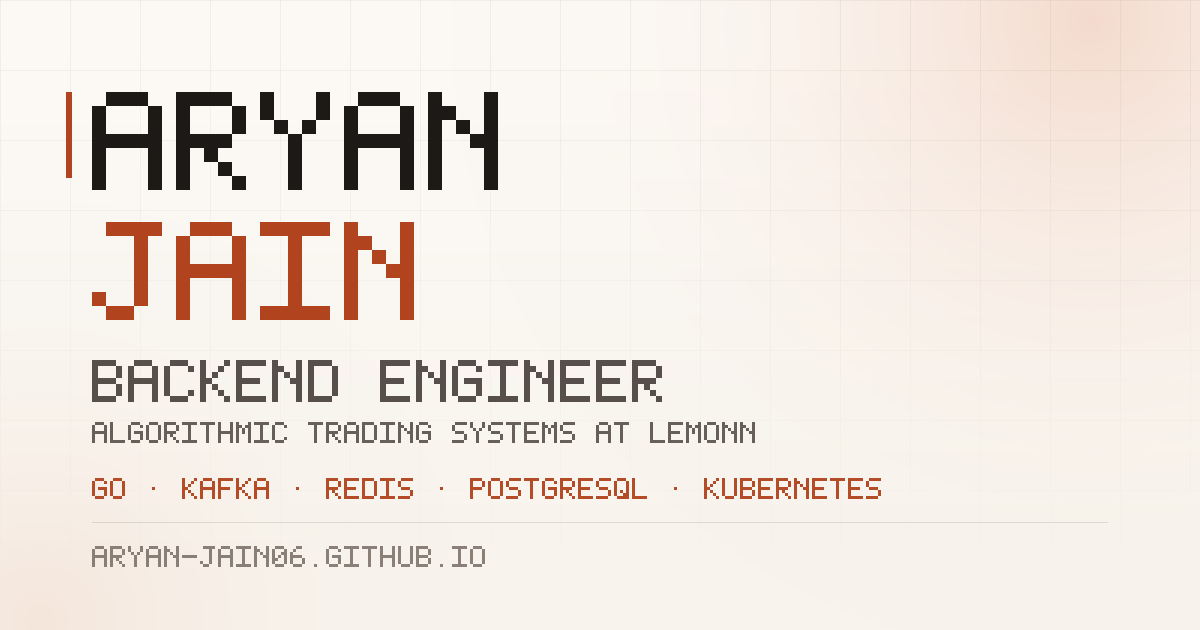
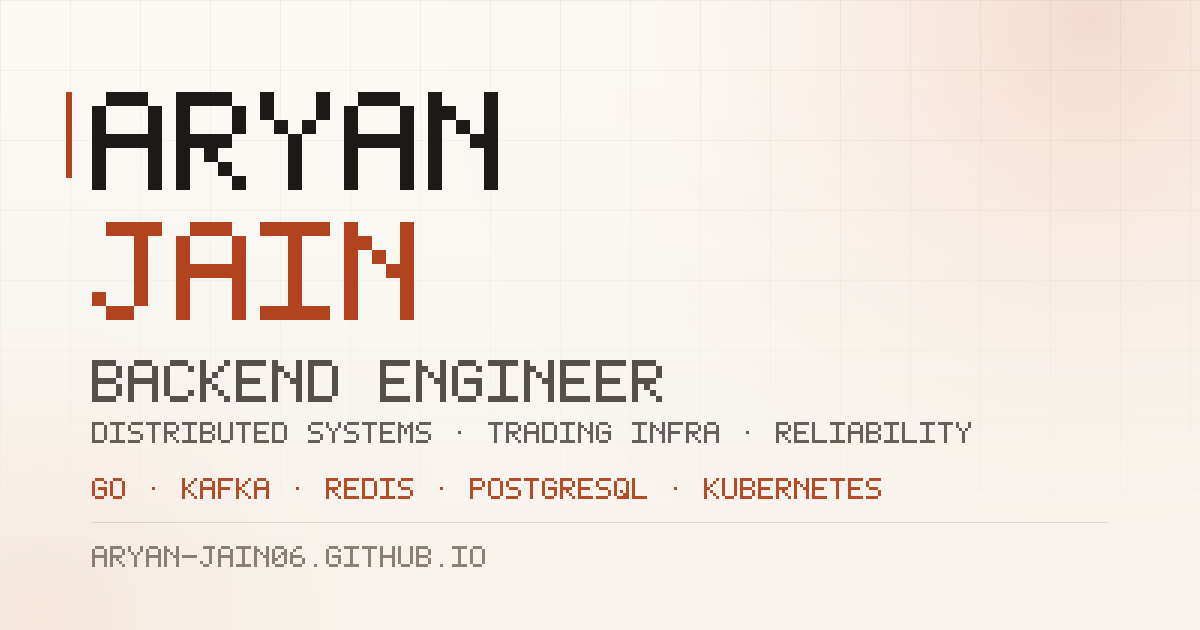
Add PolicyBazaar role; lead projects with Gramin Sahayak
PolicyBazaar (SDE 1, Aug 2026) is now the current role on the hero, the
details panel and the top of the experience timeline. Lemonn closes at
Jul 2026 and every reference to it is past tense. Graduation is past too,
so the B.Tech and chess lines move out of the present.

The PolicyBazaar entry carries a short lede rather than a single invented
bullet and a lone tag, which read as missing content — it needs real
bullets from Aryan before it says more.

Projects reordered: Gramin Sahayak first, HookRelay second, then SeatSync.
HookRelay ranks above SeatSync because it covers more ground — delivery
state machine, HMAC signing, retry schedule, dead-letter queue with
replay, dashboard and metrics — and ships a chaos test as well as a load
test.

Gramin Sahayak's card now leads with what it actually does: misinformation
detection over an ensemble of five machine-learning models served for
low-latency inference. The pipelines, translation and assistant move to
supporting detail.

Regenerated og.png, which still advertised the Lemonn role; its subtitle
is now a durable line that will not go stale on the next job change.

Claude-Session: https://claude.ai/code/session_0177WHvieA93MfrQARt76Dsn

Changed region(s): [[0.0925, 0.6635, 0.8017, 0.7238]]

diff --git a/portfolio/index.html b/portfolio/index.html
@@ -5,7 +5,7 @@
 <meta name="viewport" content="width=device-width, initial-scale=1">
 
 <title>Aryan Jain — Backend Engineer</title>
-<meta name="description" content="Backend engineer at Lemonn (CoinSwitch group), working on algorithmic trading systems in Go. Final-year B.Tech CSE at NSUT Delhi, graduating May 2026.">
+<meta name="description" content="Backend engineer at PolicyBazaar. Previously built algorithmic trading systems in Go at Lemonn, part of the CoinSwitch group. B.Tech CSE, NSUT Delhi, 2026.">
 <meta name="author" content="Aryan Jain">
 <link rel="canonical" href="https://aryan-jain06.github.io/">
 <meta name="theme-color" content="#fdfaf6" media="(prefers-color-scheme: light)">
@@ -17,7 +17,7 @@
 <meta property="og:type" content="website">
 <meta property="og:site_name" content="Aryan Jain">
 <meta property="og:title" content="Aryan Jain — Backend Engineer">
-<meta property="og:description" content="Backend engineer at Lemonn (CoinSwitch group), working on algorithmic trading systems in Go. Final-year B.Tech CSE at NSUT Delhi, graduating May 2026.">
+<meta property="og:description" content="Backend engineer at PolicyBazaar. Previously built algorithmic trading systems in Go at Lemonn, part of the CoinSwitch group. B.Tech CSE, NSUT Delhi, 2026.">
 <meta property="og:url" content="https://aryan-jain06.github.io/">
 <meta property="og:image" content="https://aryan-jain06.github.io/assets/og.png">
 <meta property="og:image:width" content="1200">
@@ -28,7 +28,7 @@
 <!-- Twitter -->
 <meta name="twitter:card" content="summary_large_image">
 <meta name="twitter:title" content="Aryan Jain — Backend Engineer">
-<meta name="twitter:description" content="Backend engineer at Lemonn (CoinSwitch group), working on algorithmic trading systems in Go. Final-year B.Tech CSE at NSUT Delhi, graduating May 2026.">
+<meta name="twitter:description" content="Backend engineer at PolicyBazaar. Previously built algorithmic trading systems in Go at Lemonn, part of the CoinSwitch group. B.Tech CSE, NSUT Delhi, 2026.">
 <meta name="twitter:image" content="https://aryan-jain06.github.io/assets/og.png">
 
 <!-- icons: SVG for browsers that take it, PNG for the ones that don't
@@ -82,7 +82,7 @@
     <div>
       <span class="status reveal">
         <span class="status__dot" aria-hidden="true"></span>
-        Backend Engineer at Lemonn
+        Backend Engineer at PolicyBazaar
       </span>
 
       <h1 class="hero__name reveal" data-d="1">
@@ -97,10 +97,10 @@
       </p>
 
       <p class="hero__blurb reveal" data-d="3">
-        I work on <strong>algorithmic trading systems</strong> at Lemonn, part of
-        the CoinSwitch group — order execution, market-data processing and risk
-        management, mostly in Go. I finish my B.Tech in Computer Science at
-        NSUT Delhi in May 2026.
+        I'm a backend engineer at <strong>PolicyBazaar</strong>. Before that I
+        built <strong>algorithmic trading systems</strong> in Go at Lemonn, part
+        of the CoinSwitch group — order execution, market-data processing and
+        risk management. B.Tech in Computer Science from NSUT Delhi.
       </p>
 
       <div class="btn-row hero__cta reveal" data-d="4">
@@ -129,11 +129,11 @@
           </div>
           <div class="kv__row">
             <span class="kv__k">Company</span>
-            <span class="kv__v">Lemonn<br><em>CoinSwitch (PeepalCo) group</em></span>
+            <span class="kv__v">PolicyBazaar</span>
           </div>
           <div class="kv__row">
-            <span class="kv__k">Working on</span>
-            <span class="kv__v">Algorithmic trading systems</span>
+            <span class="kv__k">Previously</span>
+            <span class="kv__v">Lemonn<br><em>CoinSwitch (PeepalCo) group</em></span>
           </div>
           <div class="kv__row">
             <span class="kv__k">Education</span>
@@ -157,21 +157,22 @@
     </div>
 
     <div class="prose reveal" data-d="1">
-      <p>I'm in my final year of a B.Tech in Computer Science at NSUT Delhi.
-      Since January 2026 I've been on the backend team at Lemonn, working on the
-      services that place and manage trades.</p>
+      <p>I finished my B.Tech in Computer Science at NSUT Delhi in May 2026,
+      and I'm now a backend engineer at PolicyBazaar.</p>
 
-      <p>Most of that work is in Go. The main pieces have been a trading engine
-      that evaluates strategies against live market ticks and candle data, a
-      trailing stop loss service on Kubernetes that uses Kafka to keep up with
-      thousands of concurrent orders, and a replay framework that runs strategies
-      against past market data so they can be tested without real money. I also
-      moved one of the core services off Java and onto Go.</p>
+      <p>Before that I was on the backend team at Lemonn, part of the CoinSwitch
+      group, working on the services that place and manage trades. Most of that
+      was Go: a trading engine that evaluates strategies against live market
+      ticks and candle data, a trailing stop loss service on Kubernetes that uses
+      Kafka to keep up with thousands of concurrent orders, and a replay
+      framework that runs strategies against past market data so they can be
+      tested without real money. I also moved one of the core services off Java
+      and onto Go.</p>
 
-      <p>Before that I spent a summer at Padhai Help building Spring Boot APIs
-      and designing the schema behind course progression. Outside work I solve
+      <p>Earlier I spent a summer at Padhai Help building Spring Boot APIs and
+      designing the schema behind course progression. Outside work I solve
       algorithm problems — a little over a thousand between LeetCode and
-      Codeforces — and I play chess, which I also head the team for at NSUT.</p>
+      Codeforces — and I play chess; I headed the team at NSUT.</p>
     </div>
   </div>
 </section>
@@ -181,14 +182,40 @@
     <div class="section-head reveal">
       <span class="eyebrow">Projects</span>
       <h2 class="section-title">A couple of things I've built</h2>
-      <p class="section-sub">Two Go services I've spent the most time on. Both
-      have a load test in the repository that checks the behaviour described.</p>
+      <p class="section-sub">The two I'd point at first. Both are described in
+      more detail, alongside the rest, on the projects page.</p>
     </div>
 
     <div class="projects projects--pair">
       <article class="card proj reveal" data-d="1">
         <div class="proj__top">
           <span class="proj__index">01</span>
+        </div>
+        <div class="proj__body">
+          <h3 class="proj__name">Gramin Sahayak <svg class="arr" viewBox="0 0 24 24" fill="none" stroke="currentColor" stroke-width="2" stroke-linecap="round" stroke-linejoin="round" aria-hidden="true"><path d="M5 12h13"/><path d="m12.5 5.5 6.5 6.5-6.5 6.5"/></svg></h3>
+          <p class="proj__pitch">Misinformation detection for government scheme
+          and policy content, run by an ensemble of <strong>five machine-learning
+          models</strong> served for low-latency inference — so a claim is checked
+          inline as it is read, not in an overnight batch.</p>
+          <p class="proj__note">Around it: Python and FastAPI pipelines that
+          extract, verify and translate policy data, and a Gemini-backed
+          assistant that answers questions in Indian languages.</p>
+          <div class="tags proj__tags">
+            <span class="tag tag--accent">Python</span>
+            <span class="tag">FastAPI</span>
+            <span class="tag">ML ensemble</span>
+            <span class="tag">Microservices</span>
+          </div>
+          <div class="proj__foot">
+            <span class="proj__link proj__link--off">Private repository</span>
+            <span class="proj__lang"><i aria-hidden="true"></i> Python</span>
+          </div>
+        </div>
+      </article>
+
+      <article class="card proj reveal" data-d="2">
+        <div class="proj__top">
+          <span class="proj__index">02</span>
         </div>
         <div class="proj__body">
           <h3 class="proj__name">HookRelay <svg class="arr" viewBox="0 0 24 24" fill="none" stroke="currentColor" stroke-width="2" stroke-linecap="round" stroke-linejoin="round" aria-hidden="true"><path d="M5 12h13"/><path d="m12.5 5.5 6.5 6.5-6.5 6.5"/></svg></h3>
@@ -208,32 +235,6 @@
           </div>
           <div class="proj__foot">
             <a class="proj__link" href="https://github.com/Aryan-Jain06/HookRelay" target="_blank" rel="noopener"><svg viewBox="0 0 24 24" fill="currentColor" aria-hidden="true"><path d="M12 .5C5.73.5.5 5.73.5 12c0 5.08 3.29 9.39 7.86 10.91.58.1.79-.25.79-.55v-1.94c-3.2.7-3.88-1.54-3.88-1.54-.52-1.33-1.28-1.69-1.28-1.69-1.05-.71.08-.7.08-.7 1.16.08 1.77 1.19 1.77 1.19 1.03 1.77 2.7 1.26 3.36.96.1-.75.4-1.26.73-1.55-2.55-.29-5.24-1.28-5.24-5.69 0-1.26.45-2.29 1.19-3.09-.12-.29-.52-1.46.11-3.05 0 0 .96-.31 3.15 1.18a10.9 10.9 0 0 1 5.74 0c2.18-1.49 3.14-1.18 3.14-1.18.63 1.59.23 2.76.12 3.05.74.8 1.18 1.83 1.18 3.09 0 4.42-2.69 5.39-5.25 5.68.41.36.78 1.06.78 2.14v3.17c0 .3.2.66.79.55C20.21 21.38 23.5 17.07 23.5 12 23.5 5.73 18.27.5 12 .5z"/></svg> View source</a>
-            <span class="proj__lang"><i aria-hidden="true"></i> Go</span>
-          </div>
-        </div>
-      </article>
-
-      <article class="card proj reveal" data-d="2">
-        <div class="proj__top">
-          <span class="proj__index">02</span>
-        </div>
-        <div class="proj__body">
-          <h3 class="proj__name">SeatSync <svg class="arr" viewBox="0 0 24 24" fill="none" stroke="currentColor" stroke-width="2" stroke-linecap="round" stroke-linejoin="round" aria-hidden="true"><path d="M5 12h13"/><path d="m12.5 5.5 6.5 6.5-6.5 6.5"/></svg></h3>
-          <p class="proj__pitch">An event ticket booking backend with a live seat
-          map. A seat is held for five minutes by a Redis key that expires on its
-          own, and a partial unique index in Postgres makes selling the same seat
-          twice impossible.</p>
-          <p class="proj__note">Load test: 500 concurrent booking attempts across
-          50 seats — 50 confirmed, 450 rejected as conflicts, no double
-          sales.</p>
-          <div class="tags proj__tags">
-            <span class="tag tag--accent">Go</span>
-            <span class="tag">Redis</span>
-            <span class="tag">PostgreSQL</span>
-            <span class="tag">WebSocket</span>
-          </div>
-          <div class="proj__foot">
-            <a class="proj__link" href="https://github.com/Aryan-Jain06/seatsync" target="_blank" rel="noopener"><svg viewBox="0 0 24 24" fill="currentColor" aria-hidden="true"><path d="M12 .5C5.73.5.5 5.73.5 12c0 5.08 3.29 9.39 7.86 10.91.58.1.79-.25.79-.55v-1.94c-3.2.7-3.88-1.54-3.88-1.54-.52-1.33-1.28-1.69-1.28-1.69-1.05-.71.08-.7.08-.7 1.16.08 1.77 1.19 1.77 1.19 1.03 1.77 2.7 1.26 3.36.96.1-.75.4-1.26.73-1.55-2.55-.29-5.24-1.28-5.24-5.69 0-1.26.45-2.29 1.19-3.09-.12-.29-.52-1.46.11-3.05 0 0 .96-.31 3.15 1.18a10.9 10.9 0 0 1 5.74 0c2.18-1.49 3.14-1.18 3.14-1.18.63 1.59.23 2.76.12 3.05.74.8 1.18 1.83 1.18 3.09 0 4.42-2.69 5.39-5.25 5.68.41.36.78 1.06.78 2.14v3.17c0 .3.2.66.79.55C20.21 21.38 23.5 17.07 23.5 12 23.5 5.73 18.27.5 12 .5z"/></svg> View source</a>
             <span class="proj__lang"><i aria-hidden="true"></i> Go</span>
           </div>
         </div>

diff --git a/portfolio/projects.html b/portfolio/projects.html
@@ -5,7 +5,7 @@
 <meta name="viewport" content="width=device-width, initial-scale=1">
 
 <title>Projects — Aryan Jain</title>
-<meta name="description" content="Projects by Aryan Jain: HookRelay (webhook delivery in Go), SeatSync (ticket booking with Redis and Postgres), Gramin Sahayak, and machine-learning work in Python.">
+<meta name="description" content="Projects by Aryan Jain: Gramin Sahayak (low-latency misinformation detection), HookRelay (webhook delivery in Go), SeatSync (high-concurrency ticket booking), and machine-learning work in Python.">
 <meta name="author" content="Aryan Jain">
 <link rel="canonical" href="https://aryan-jain06.github.io/projects.html">
 <meta name="theme-color" content="#fdfaf6" media="(prefers-color-scheme: light)">
@@ -17,7 +17,7 @@
 <meta property="og:type" content="website">
 <meta property="og:site_name" content="Aryan Jain">
 <meta property="og:title" content="Projects — Aryan Jain">
-<meta property="og:description" content="Projects by Aryan Jain: HookRelay (webhook delivery in Go), SeatSync (ticket booking with Redis and Postgres), Gramin Sahayak, and machine-learning work in Python.">
+<meta property="og:description" content="Projects by Aryan Jain: Gramin Sahayak (low-latency misinformation detection), HookRelay (webhook delivery in Go), SeatSync (high-concurrency ticket booking), and machine-learning work in Python.">
 <meta property="og:url" content="https://aryan-jain06.github.io/projects.html">
 <meta property="og:image" content="https://aryan-jain06.github.io/assets/og.png">
 <meta property="og:image:width" content="1200">
@@ -28,7 +28,7 @@
 <!-- Twitter -->
 <meta name="twitter:card" content="summary_large_image">
 <meta name="twitter:title" content="Projects — Aryan Jain">
-<meta name="twitter:description" content="Projects by Aryan Jain: HookRelay (webhook delivery in Go), SeatSync (ticket booking with Redis and Postgres), Gramin Sahayak, and machine-learning work in Python.">
+<meta name="twitter:description" content="Projects by Aryan Jain: Gramin Sahayak (low-latency misinformation detection), HookRelay (webhook delivery in Go), SeatSync (high-concurrency ticket booking), and machine-learning work in Python.">
 <meta name="twitter:image" content="https://aryan-jain06.github.io/assets/og.png">
 
 <!-- icons: SVG for browsers that take it, PNG for the ones that don't
@@ -82,15 +82,38 @@
     <div class="section-head reveal">
       <span class="eyebrow">Projects</span>
       <h2 class="section-title">Projects</h2>
-      <p class="section-sub">Mostly backend. The two Go services at the top are
-      the ones I've spent the most time on, and both have a load test in the
-      repository that checks the behaviour described.</p>
+      <p class="section-sub">Ordered by how much of me is in them. The two Go
+      services each ship with a load test in the repository that checks the
+      behaviour described here.</p>
     </div>
 
     <div class="projects">
       <article class="card proj reveal" data-d="1">
         <div class="proj__top">
           <span class="proj__index">01</span>
+        </div>
+        <div class="proj__body">
+          <h3 class="proj__name">Gramin Sahayak <svg class="arr" viewBox="0 0 24 24" fill="none" stroke="currentColor" stroke-width="2" stroke-linecap="round" stroke-linejoin="round" aria-hidden="true"><path d="M5 12h13"/><path d="m12.5 5.5 6.5 6.5-6.5 6.5"/></svg></h3>
+          <p class="proj__pitch">Misinformation detection for government scheme and policy content, run by an ensemble of five machine-learning models served for low-latency inference — so a claim is checked inline as it is read, rather than in an overnight batch.</p>
+          <p class="proj__note">Around the detection layer: Python and FastAPI pipelines that extract, verify and translate policy data, Sarvam AI for Indian-language translation, and a Gemini-backed assistant over a microservices setup.</p>
+          <div class="tags proj__tags">
+            <span class="tag tag--accent">Python</span>
+            <span class="tag">FastAPI</span>
+            <span class="tag">ML ensemble</span>
+            <span class="tag">Low-latency inference</span>
+            <span class="tag">Microservices</span>
+            <span class="tag">Gemini</span>
+            <span class="tag">Sarvam AI</span>
+          </div>
+          <div class="proj__foot">
+            <span class="proj__link proj__link--off">Private repository</span>
+            <span class="proj__lang"><i aria-hidden="true"></i> Python</span>
+          </div>
+        </div>
+      </article>
+      <article class="card proj reveal" data-d="2">
+        <div class="proj__top">
+          <span class="proj__index">02</span>
         </div>
         <div class="proj__body">
           <h3 class="proj__name">HookRelay <svg class="arr" viewBox="0 0 24 24" fill="none" stroke="currentColor" stroke-width="2" stroke-linecap="round" stroke-linejoin="round" aria-hidden="true"><path d="M5 12h13"/><path d="m12.5 5.5 6.5 6.5-6.5 6.5"/></svg></h3>
@@ -110,9 +133,9 @@
           </div>
         </div>
       </article>
-      <article class="card proj reveal" data-d="2">
+      <article class="card proj reveal" data-d="3">
         <div class="proj__top">
-          <span class="proj__index">02</span>
+          <span class="proj__index">03</span>
         </div>
         <div class="proj__body">
           <h3 class="proj__name">SeatSync <svg class="arr" viewBox="0 0 24 24" fill="none" stroke="currentColor" stroke-width="2" stroke-linecap="round" stroke-linejoin="round" aria-hidden="true"><path d="M5 12h13"/><path d="m12.5 5.5 6.5 6.5-6.5 6.5"/></svg></h3>
@@ -129,27 +152,6 @@
           <div class="proj__foot">
             <a class="proj__link" href="https://github.com/Aryan-Jain06/seatsync" target="_blank" rel="noopener"><svg viewBox="0 0 24 24" fill="currentColor" aria-hidden="true"><path d="M12 .5C5.73.5.5 5.73.5 12c0 5.08 3.29 9.39 7.86 10.91.58.1.79-.25.79-.55v-1.94c-3.2.7-3.88-1.54-3.88-1.54-.52-1.33-1.28-1.69-1.28-1.69-1.05-.71.08-.7.08-.7 1.16.08 1.77 1.19 1.77 1.19 1.03 1.77 2.7 1.26 3.36.96.1-.75.4-1.26.73-1.55-2.55-.29-5.24-1.28-5.24-5.69 0-1.26.45-2.29 1.19-3.09-.12-.29-.52-1.46.11-3.05 0 0 .96-.31 3.15 1.18a10.9 10.9 0 0 1 5.74 0c2.18-1.49 3.14-1.18 3.14-1.18.63 1.59.23 2.76.12 3.05.74.8 1.18 1.83 1.18 3.09 0 4.42-2.69 5.39-5.25 5.68.41.36.78 1.06.78 2.14v3.17c0 .3.2.66.79.55C20.21 21.38 23.5 17.07 23.5 12 23.5 5.73 18.27.5 12 .5z"/></svg> View source</a>
             <span class="proj__lang"><i aria-hidden="true"></i> Go</span>
-          </div>
-        </div>
-      </article>
-      <article class="card proj reveal" data-d="3">
-        <div class="proj__top">
-          <span class="proj__index">03</span>
-        </div>
-        <div class="proj__body">
-          <h3 class="proj__name">Gramin Sahayak <svg class="arr" viewBox="0 0 24 24" fill="none" stroke="currentColor" stroke-width="2" stroke-linecap="round" stroke-linejoin="round" aria-hidden="true"><path d="M5 12h13"/><path d="m12.5 5.5 6.5 6.5-6.5 6.5"/></svg></h3>
-          <p class="proj__pitch">A platform that extracts, verifies and translates government policy data, then serves it in Indian languages through a conversational assistant.</p>
-          <p class="proj__note">Data pipelines in Python and FastAPI, translation through Sarvam AI, and a Gemini-backed assistant over a microservices setup.</p>
-          <div class="tags proj__tags">
-            <span class="tag tag--accent">Python</span>
-            <span class="tag">FastAPI</span>
-            <span class="tag">Microservices</span>
-            <span class="tag">Gemini</span>
-            <span class="tag">Sarvam AI</span>
-          </div>
-          <div class="proj__foot">
-            <span class="proj__link proj__link--off">Private repository</span>
-            <span class="proj__lang"><i aria-hidden="true"></i> Python</span>
           </div>
         </div>
       </article>

diff --git a/portfolio/experience.html b/portfolio/experience.html
@@ -5,7 +5,7 @@
 <meta name="viewport" content="width=device-width, initial-scale=1">
 
 <title>Experience — Aryan Jain</title>
-<meta name="description" content="Backend Engineer at Lemonn (CoinSwitch group) since January 2026, working on algorithmic trading systems in Go. Previously a backend intern at Padhai Help. B.Tech CSE, NSUT Delhi.">
+<meta name="description" content="Backend engineer at PolicyBazaar since August 2026. Previously built algorithmic trading systems in Go at Lemonn (CoinSwitch group), and Spring Boot APIs at Padhai Help. B.Tech CSE, NSUT Delhi.">
 <meta name="author" content="Aryan Jain">
 <link rel="canonical" href="https://aryan-jain06.github.io/experience.html">
 <meta name="theme-color" content="#fdfaf6" media="(prefers-color-scheme: light)">
@@ -17,7 +17,7 @@
 <meta property="og:type" content="website">
 <meta property="og:site_name" content="Aryan Jain">
 <meta property="og:title" content="Experience — Aryan Jain">
-<meta property="og:description" content="Backend Engineer at Lemonn (CoinSwitch group) since January 2026, working on algorithmic trading systems in Go. Previously a backend intern at Padhai Help. B.Tech CSE, NSUT Delhi.">
+<meta property="og:description" content="Backend engineer at PolicyBazaar since August 2026. Previously built algorithmic trading systems in Go at Lemonn (CoinSwitch group), and Spring Boot APIs at Padhai Help. B.Tech CSE, NSUT Delhi.">
 <meta property="og:url" content="https://aryan-jain06.github.io/experience.html">
 <meta property="og:image" content="https://aryan-jain06.github.io/assets/og.png">
 <meta property="og:image:width" content="1200">
@@ -28,7 +28,7 @@
 <!-- Twitter -->
 <meta name="twitter:card" content="summary_large_image">
 <meta name="twitter:title" content="Experience — Aryan Jain">
-<meta name="twitter:description" content="Backend Engineer at Lemonn (CoinSwitch group) since January 2026, working on algorithmic trading systems in Go. Previously a backend intern at Padhai Help. B.Tech CSE, NSUT Delhi.">
+<meta name="twitter:description" content="Backend engineer at PolicyBazaar since August 2026. Previously built algorithmic trading systems in Go at Lemonn (CoinSwitch group), and Spring Boot APIs at Padhai Help. B.Tech CSE, NSUT Delhi.">
 <meta name="twitter:image" content="https://aryan-jain06.github.io/assets/og.png">
 
 <!-- icons: SVG for browsers that take it, PNG for the ones that don't
@@ -89,10 +89,24 @@
       <article class="tl-item tl-item--now reveal" data-d="1">
         <div class="tl-head">
           <div>
+            <h3 class="tl-role">Software Development Engineer 1</h3>
+            <span class="tl-org">PolicyBazaar</span>
+          </div>
+          <span class="tl-when">Aug 2026 — Present</span>
+        </div>
+        <div class="tl-body">
+          <p class="tl-lede">Backend engineering. Recently started — more detail
+          here as the work lands.</p>
+        </div>
+      </article>
+
+      <article class="tl-item reveal" data-d="2">
+        <div class="tl-head">
+          <div>
             <h3 class="tl-role">Backend Engineer</h3>
             <span class="tl-org">Lemonn — CoinSwitch (PeepalCo) group</span>
           </div>
-          <span class="tl-when">Jan 2026 — Present</span>
+          <span class="tl-when">Jan 2026 — Jul 2026</span>
         </div>
         <div class="tl-body">
           <ul class="bullets">
@@ -129,7 +143,7 @@
         </div>
       </article>
 
-      <article class="tl-item reveal" data-d="2">
+      <article class="tl-item reveal" data-d="3">
         <div class="tl-head">
           <div>
             <h3 class="tl-role">Backend Intern</h3>
@@ -176,7 +190,7 @@
         </div>
         <div class="tl-body">
           <ul class="bullets">
-            <li>Head of the college chess team.</li>
+            <li>Headed the college chess team.</li>
           </ul>
         </div>
       </article>

diff --git a/portfolio/styles.css b/portfolio/styles.css
@@ -859,6 +859,12 @@ svg.arr { width: 16px; height: 16px; flex: none; }
 
 .bullets strong { color: var(--txt); font-weight: 600; }
 
+.tl-lede {
+  color: var(--txt-dim);
+  font-size: 0.95rem;
+  max-width: 62ch;
+}
+
 .tl-tags { margin-top: var(--s5); }
 
 /* education / compact rows */
